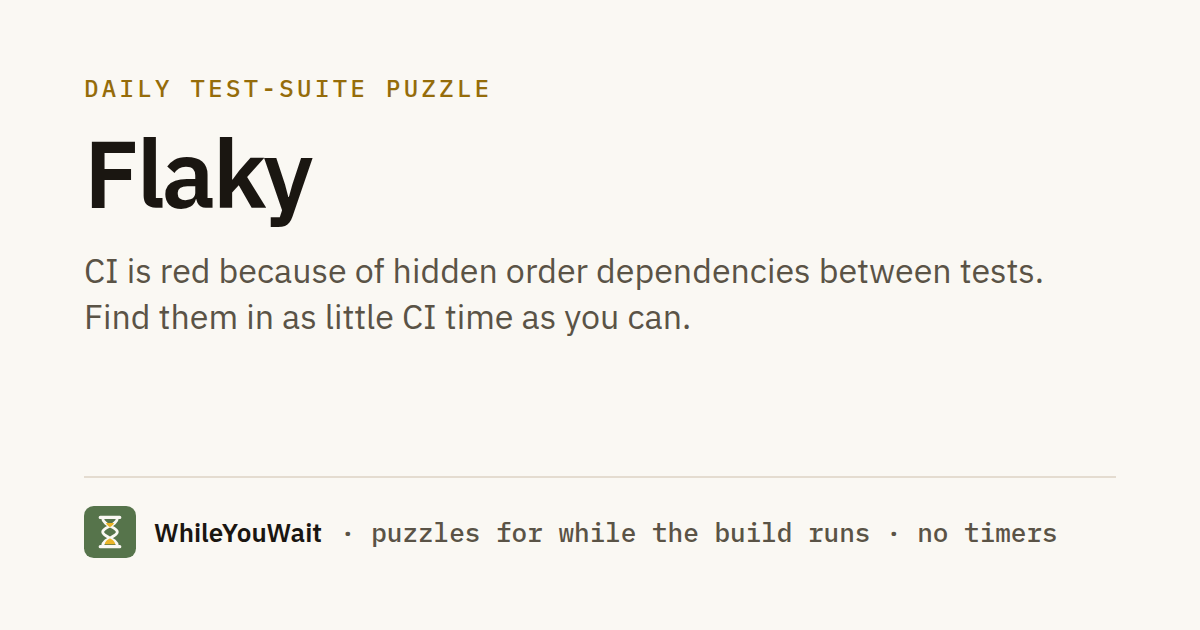
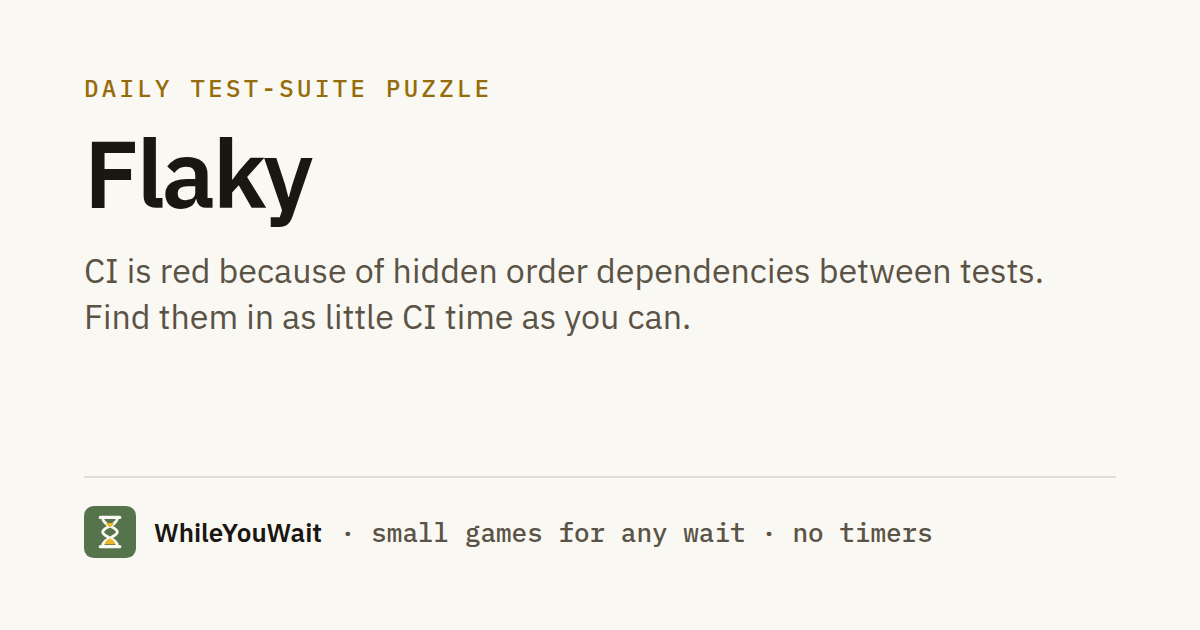
feat(web): pitch the catalog for any wait, not just the build
WhileYouWait is now small daily games for any wait: the build, the commute,
the queue. The catalog's title, description, structured data and lede say so,
and every social card is re-rendered with the new footer. Root Cause and Flaky
keep "for developers" in their own titles, which is still true of them.

Changed region(s): [[0.3083, 0.8143, 0.8942, 0.8746]]

diff --git a/services/web/public/index.html b/services/web/public/index.html
@@ -2,10 +2,10 @@
 <html lang="en">
 <meta charset="utf-8">
 <meta name="viewport" content="width=device-width, initial-scale=1, viewport-fit=cover">
-<title>WhileYouWait: daily deduction puzzles for developers</title>
-<meta name="description" content="Daily deduction puzzles for developers, for while the build runs. No timers.">
+<title>WhileYouWait: small daily games for any wait</title>
+<meta name="description" content="Small daily games for any wait: the build, the commute, the queue. No timers.">
 <meta property="og:title" content="WhileYouWait">
-<meta property="og:description" content="Daily deduction puzzles for developers, for while the build runs. No timers.">
+<meta property="og:description" content="Small daily games for any wait: the build, the commute, the queue. No timers.">
 <link rel="canonical" href="https://whileyouwait.suncake.xyz/">
 <meta property="og:type" content="website">
 <meta property="og:site_name" content="WhileYouWait">
@@ -21,7 +21,7 @@
 <script src="/shared/offline.js" defer></script>
 <script type="application/ld+json">
 {"@context":"https://schema.org","@type":"WebSite","name":"WhileYouWait","url":"https://whileyouwait.suncake.xyz/",
- "description":"Daily deduction puzzles for developers, for while the build runs. No timers."}
+ "description":"Small daily games for any wait: the build, the commute, the queue. No timers."}
 </script>
 <link rel="preconnect" href="https://fonts.googleapis.com">
 <link rel="stylesheet" href="https://fonts.googleapis.com/css2?family=IBM+Plex+Sans:wght@400;500;600&family=IBM+Plex+Mono:wght@400;500;600&display=swap">
@@ -146,7 +146,7 @@ footer a { color: inherit; }
   <header>
     <div class="eyebrow">Daily puzzles · no timers</div>
     <h1>WhileYouWait</h1>
-    <p class="lede">Deduction puzzles for developers, for while the build runs. A new one of each every day, and you can take as long as you like.</p>
+    <p class="lede">Small games for any wait: the build, the commute, the queue. A new one of each every day, and you can take as long as you like.</p>
   </header>
 
   <ul class="games">

diff --git a/services/web/cards/card.html b/services/web/cards/card.html
@@ -20,7 +20,7 @@ footer b { color: #1A1611; font-family: "IBM Plex Sans", sans-serif; font-weight
   <h1 id="title"></h1>
   <p id="text"></p>
 </main>
-<footer><img src="../public/favicon.svg" alt=""><b>WhileYouWait</b> · puzzles for while the build runs · no timers</footer>
+<footer><img src="../public/favicon.svg" alt=""><b>WhileYouWait</b> · small games for any wait · no timers</footer>
 <script>
 const q = new URLSearchParams(location.search);
 for (const k of ['eyebrow', 'title', 'text']) document.getElementById(k).textContent = q.get(k) || '';
